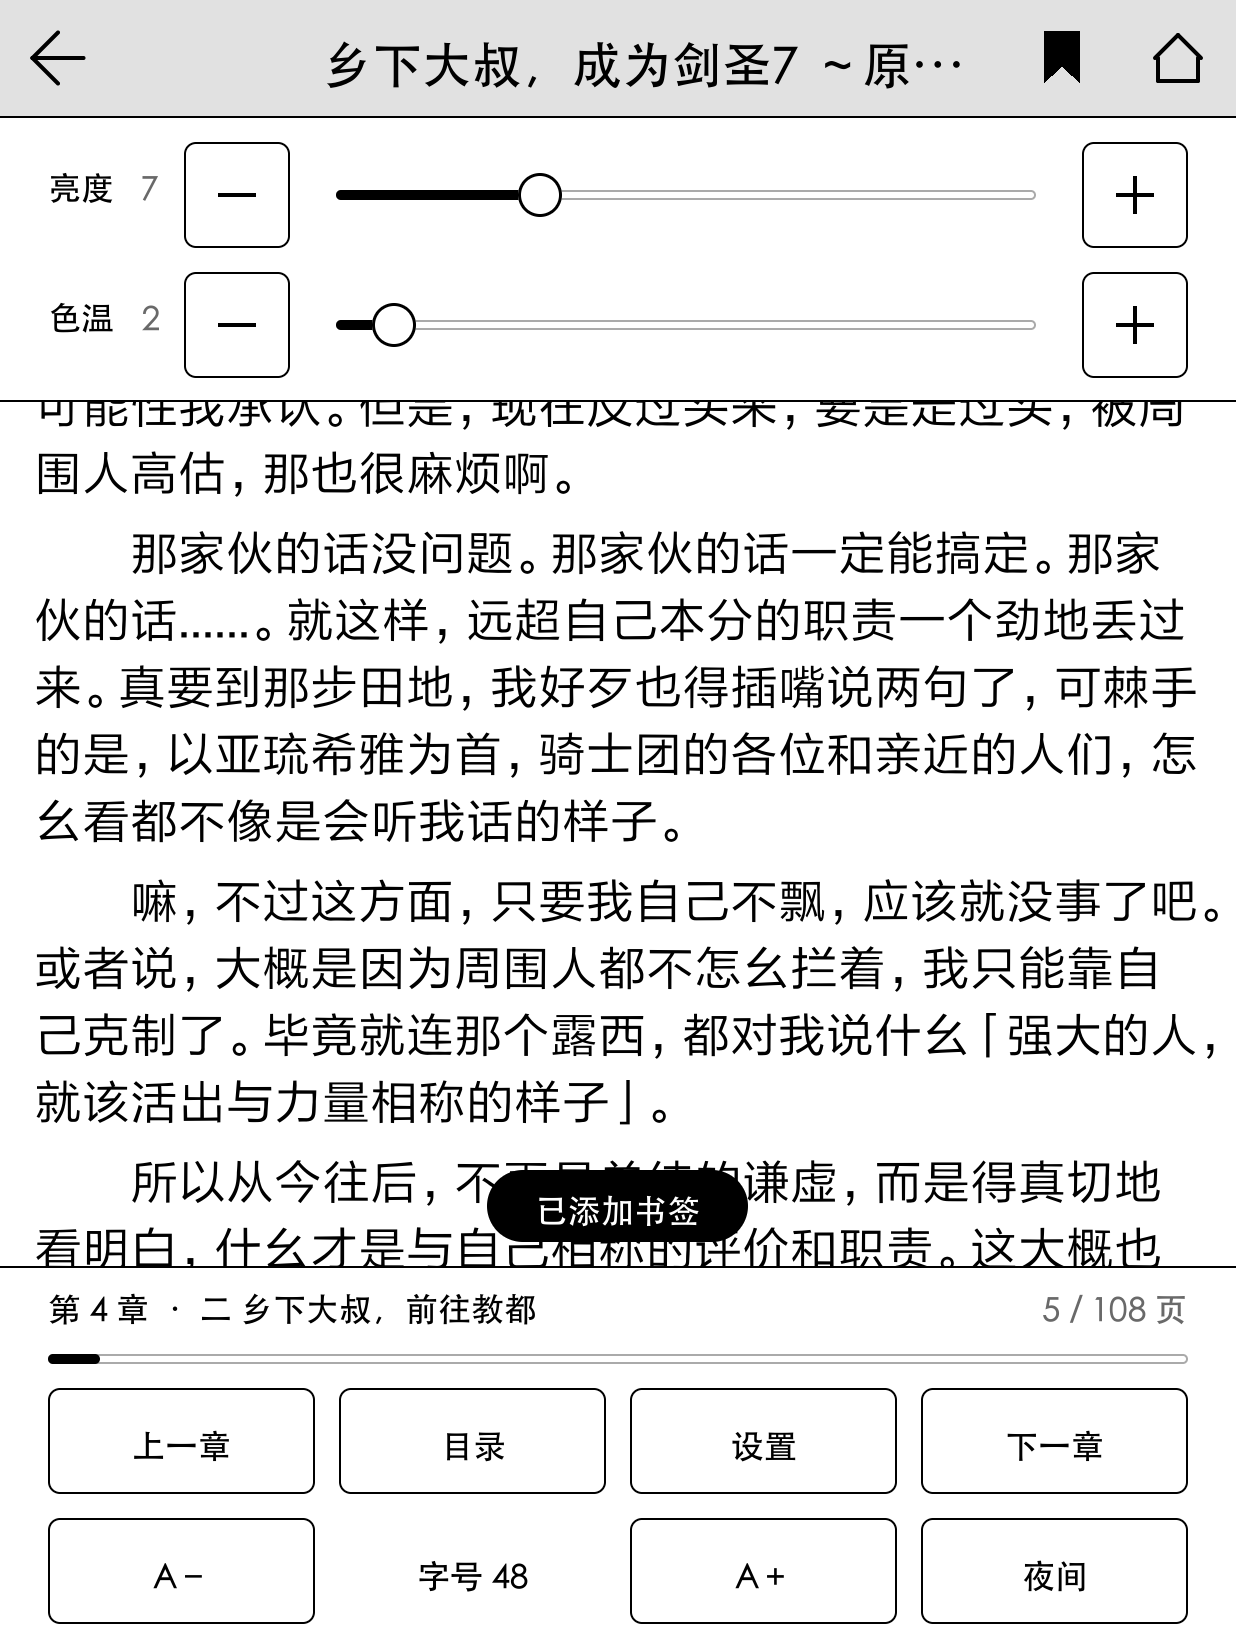
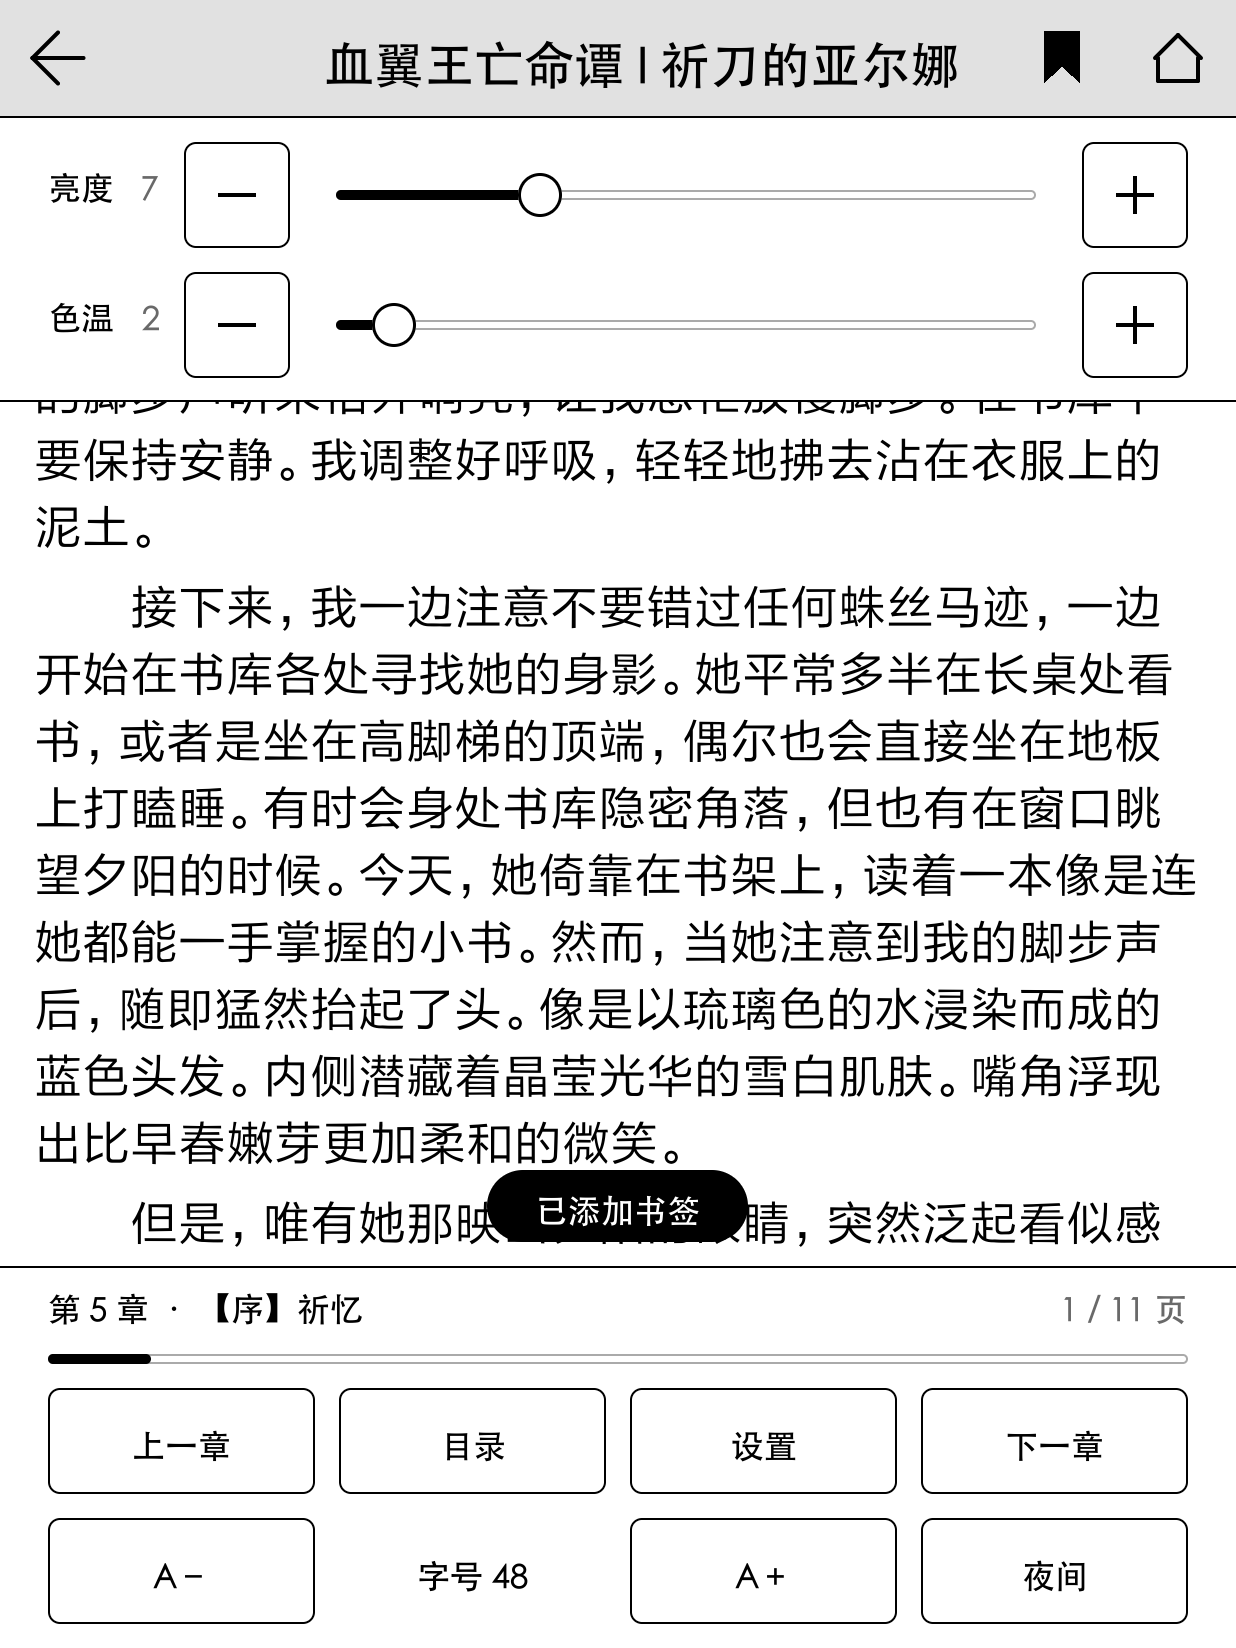
release: v1.4.0 —— 书架文件夹、操作提示、emoji 显示、阅读页顶栏

Changed region(s): [[0.0307, 0.2476, 0.9838, 0.8046], [0.246, 0.0, 0.7686, 0.0619], [0.0922, 0.8046, 0.123, 0.8356]]

diff --git a/docs/releases/v1.4.0.md b/docs/releases/v1.4.0.md
@@ -1,0 +1,16 @@
+## 新功能
+
+- **书架文件夹**：书架列表上方的「＋ 新建文件夹」可以在当前这一层新建文件夹。长按书可以移动到别的文件夹或移出书架；长按文件夹可以移动、重命名或删除（里面的书会移到上一层）。规则与网页版一致，改动会同步到云端书架。
+- **操作提示**：第一次打开书架、阅读页、漫画、搜索键盘、目录与书签和插图查看时，会弹出这一页的操作说明。点「我知道了」以后不再出现，点「感觉会忘记」则下次启动后还会提示。可以在「设置 → 显示 → 操作提示」里关闭，重新打开后所有提示会再显示一次。
+- **Emoji**：评论、公告和书名里的 emoji 不再显示为方框，改用黑白的 Noto Emoji 字体显示。
+
+## 改进
+
+- **阅读页顶栏**：章节名后面直接跟页码，时间和电量移到右侧，与其他页面一致。
+- **书架写回**：加入、移出书架和删除文件夹时，与网页版一样重新整理书架顺序。
+
+文件夹的新建、移动、重命名和删除都在 Kindle Paperwhite 5 上用真实书架测试过。
+
+## 安装
+
+下载 `KinNovel-v1.4.0.zip`，把其中 `KinNovel` 文件夹里的全部内容复制到 Kindle 的 `extensions/kinnovel/`，直接覆盖即可，配置、进度、书签和缓存都会保留。
